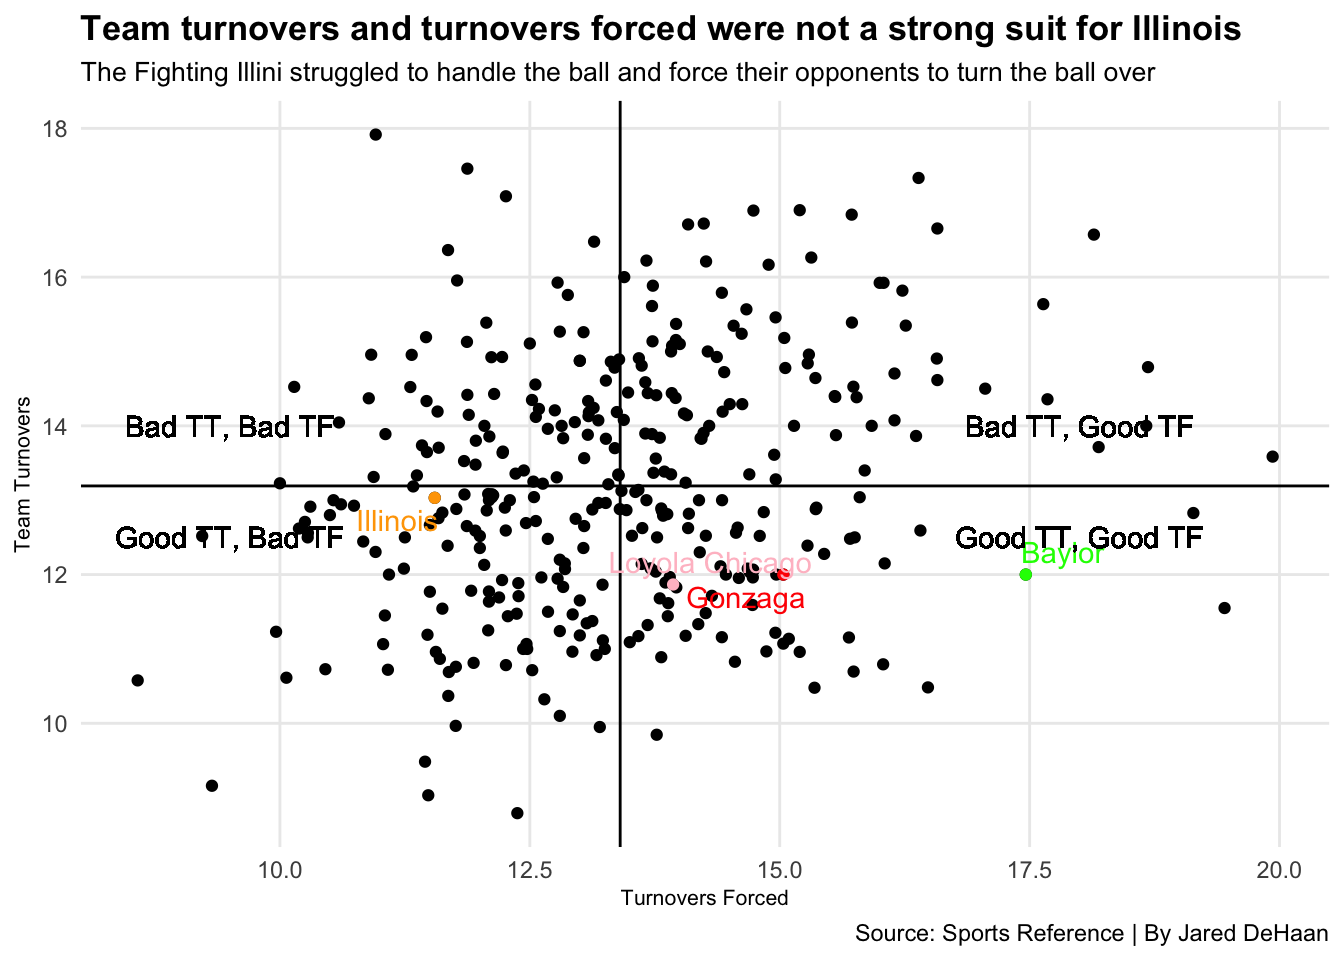
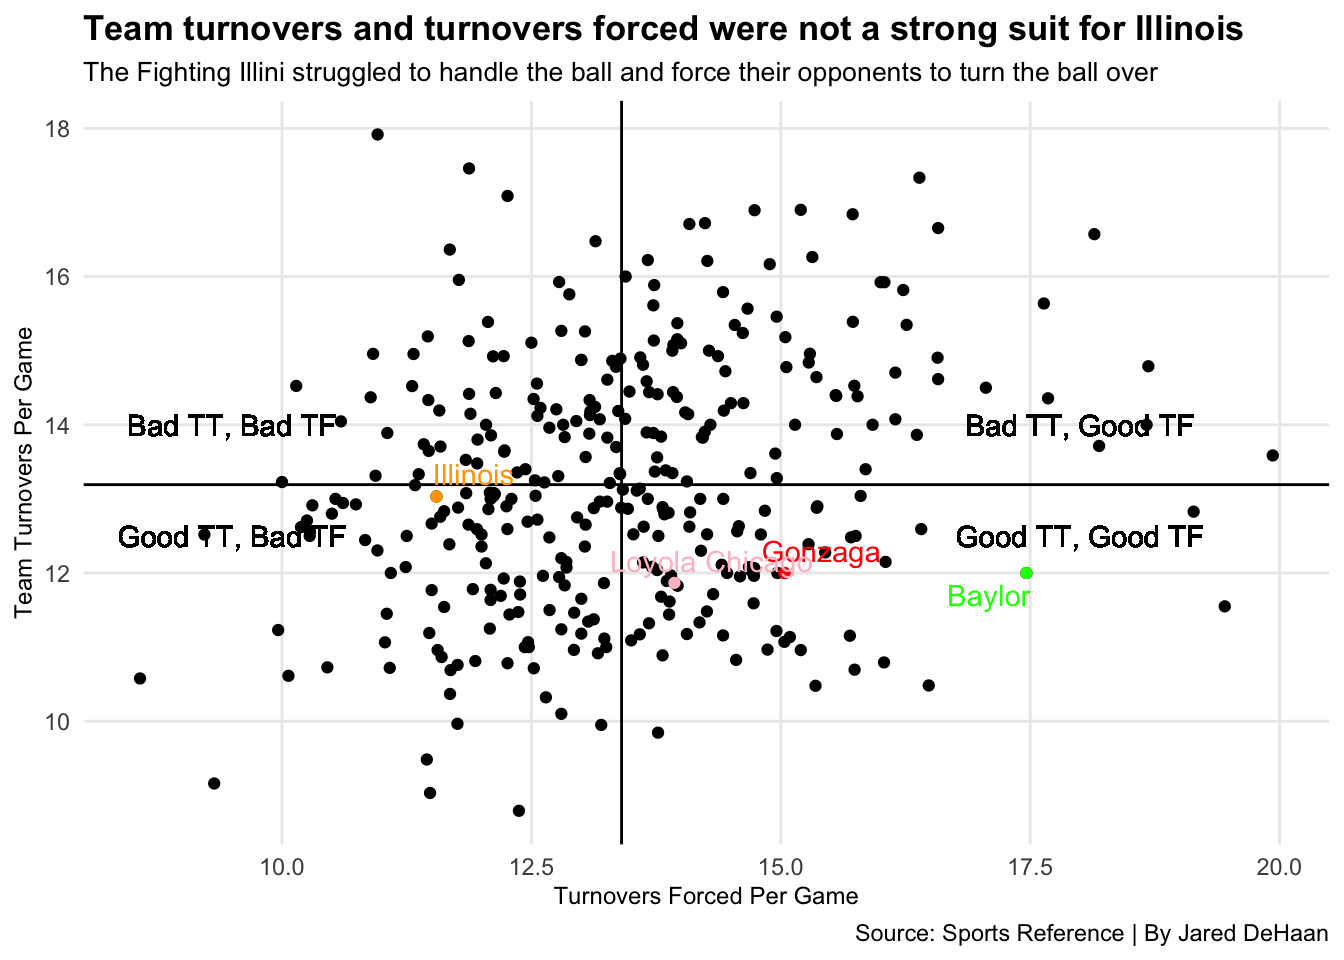
ha

diff --git a/2021/03/27/illinois-missed-their-chance/index.html b/2021/03/27/illinois-missed-their-chance/index.html
@@ -152,11 +152,11 @@ avgtopergame &lt;- turnovers %&gt;% summarise(
   geom_vline(xintercept = 13.40379) +
   geom_hline(yintercept = 13.19193) +
 geom_point(color=&quot;black&quot;) + 
-  labs(x=&quot;Turnovers Forced&quot;, y=&quot;Team Turnovers&quot;, title=&quot;Team turnovers and turnovers forced were not a strong suit for Illinois&quot;, subtitle=&quot;The Fighting Illini struggled to handle the ball and force their opponents to turn the ball over&quot;, caption=&quot;Source: Sports Reference | By Jared DeHaan&quot;) + 
+  labs(x=&quot;Turnovers Forced Per Game&quot;, y=&quot;Team Turnovers Per Game&quot;, title=&quot;Team turnovers and turnovers forced were not a strong suit for Illinois&quot;, subtitle=&quot;The Fighting Illini struggled to handle the ball and force their opponents to turn the ball over&quot;, caption=&quot;Source: Sports Reference | By Jared DeHaan&quot;) + 
   theme_minimal() + 
   theme(
     plot.title = element_text(size = 13, face = &quot;bold&quot;),
-    axis.title = element_text(size = 8), 
+    axis.title = element_text(size = 9), 
     plot.subtitle = element_text(size=10), 
     panel.grid.minor = element_blank()
     ) +
